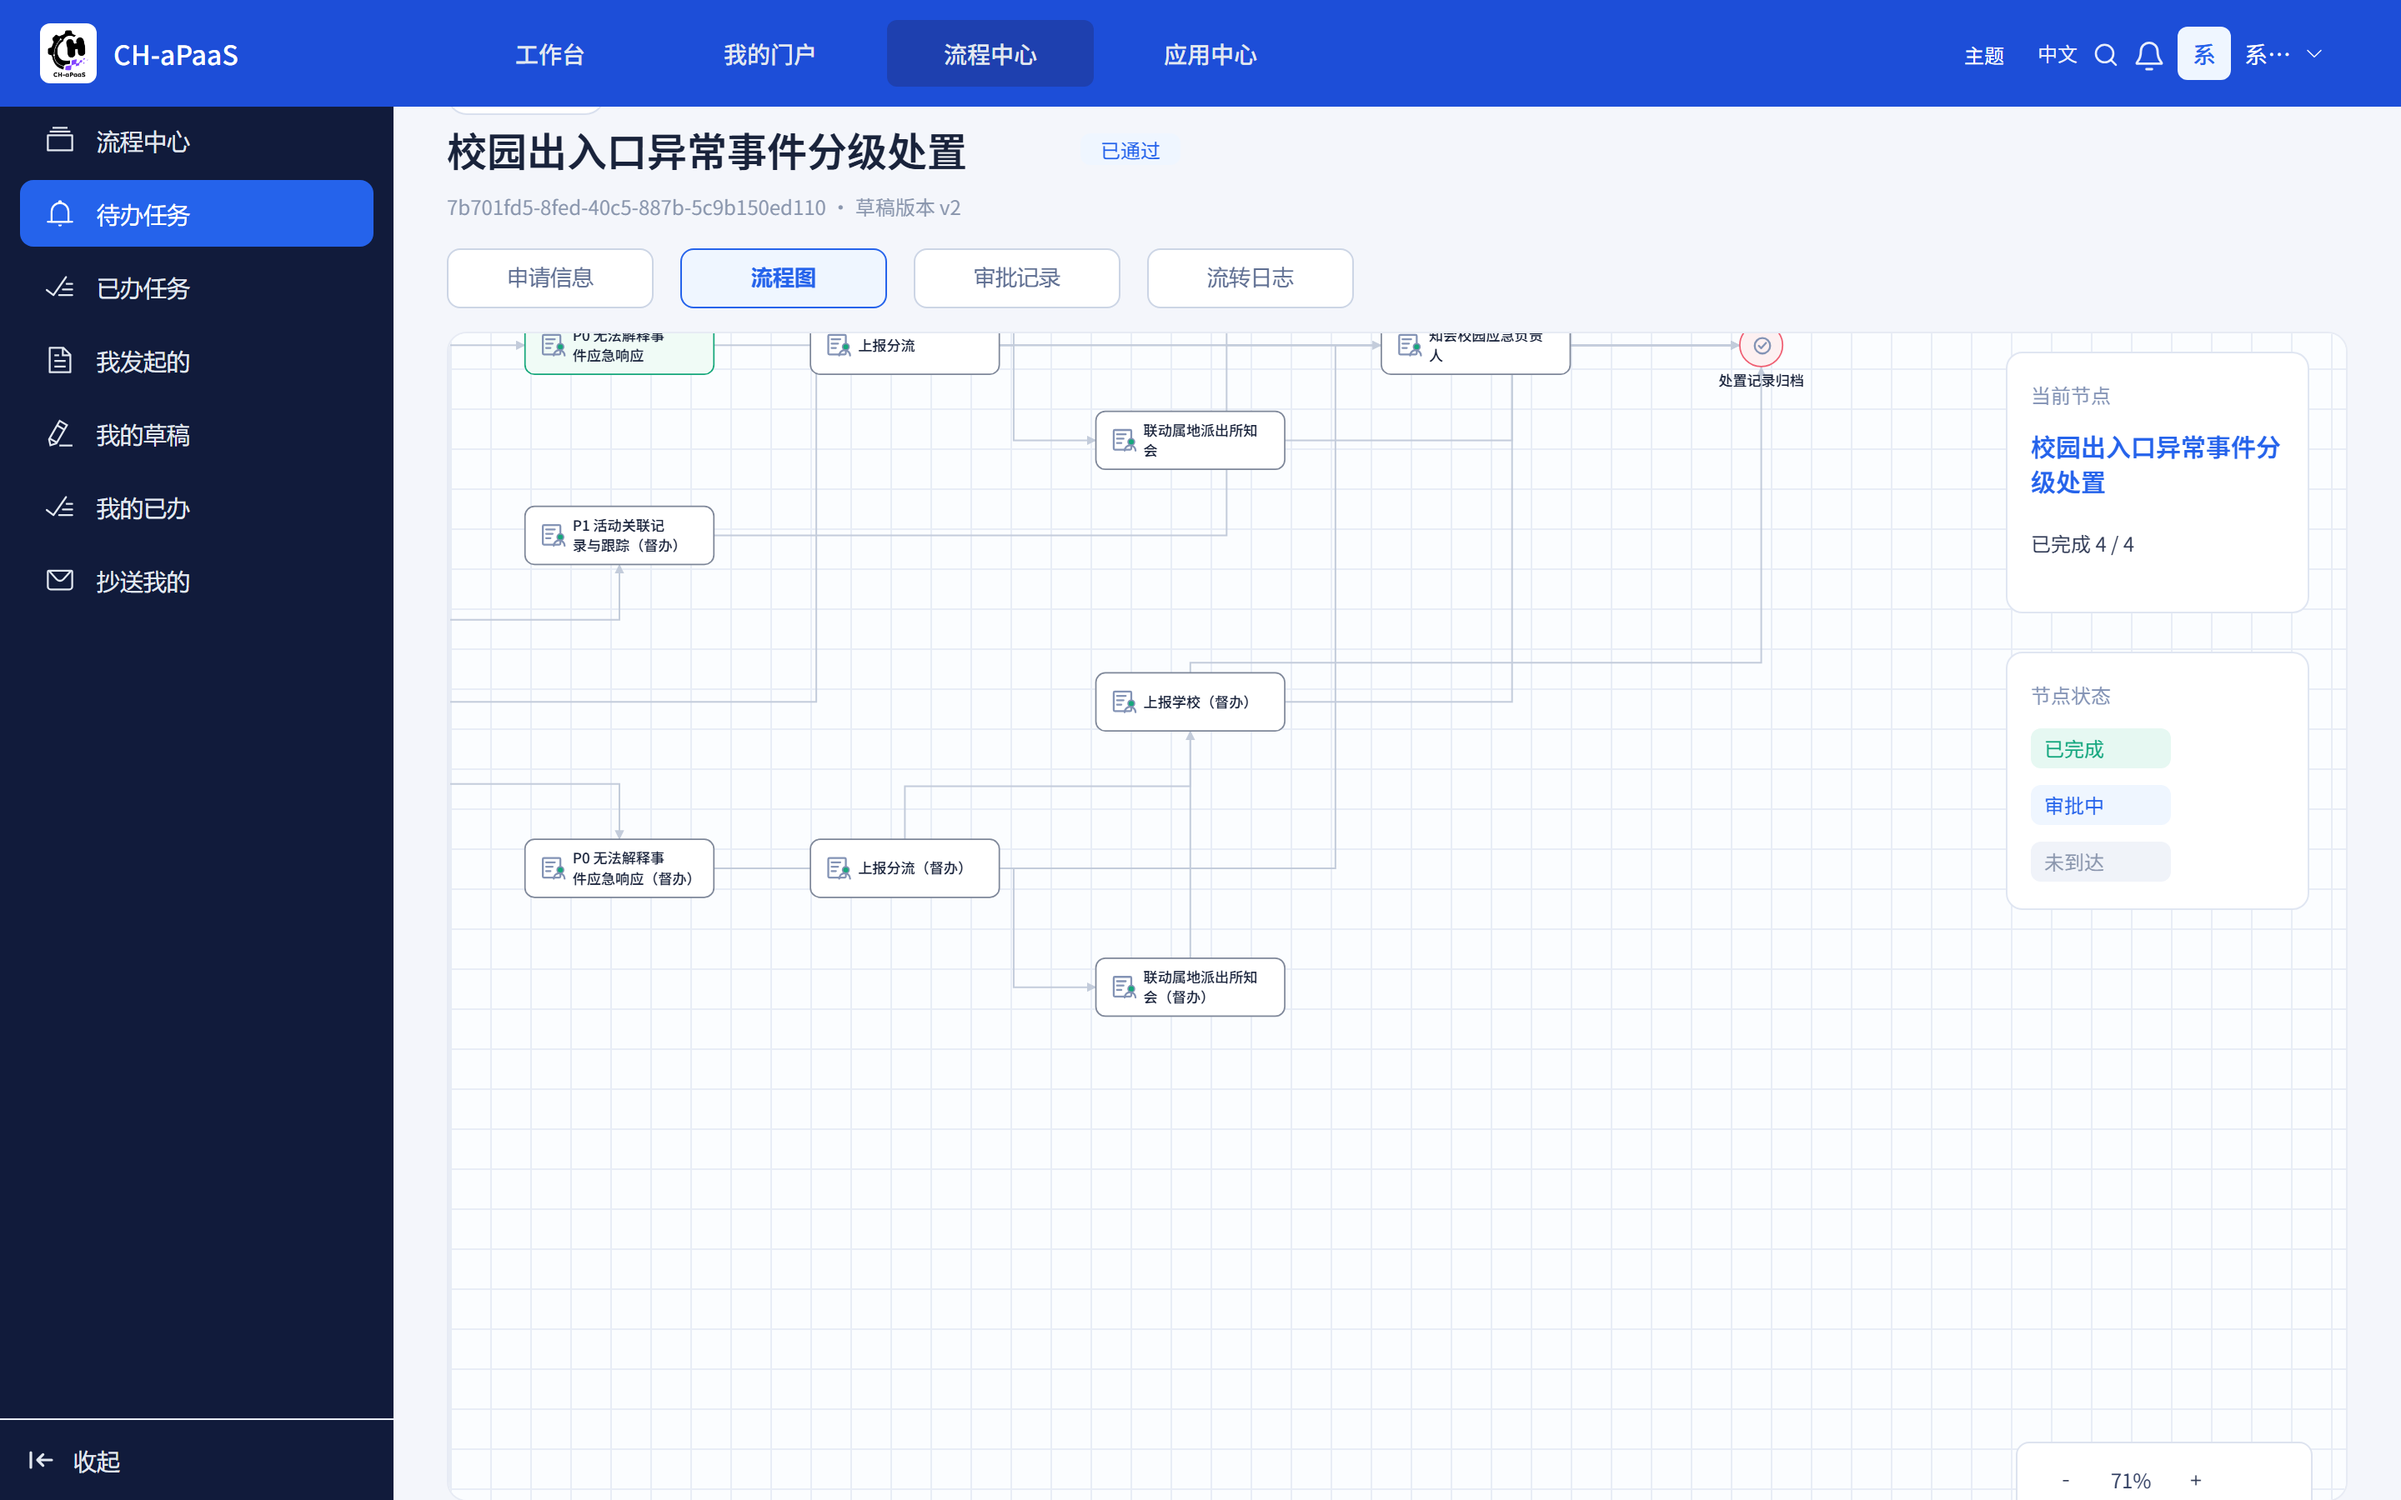
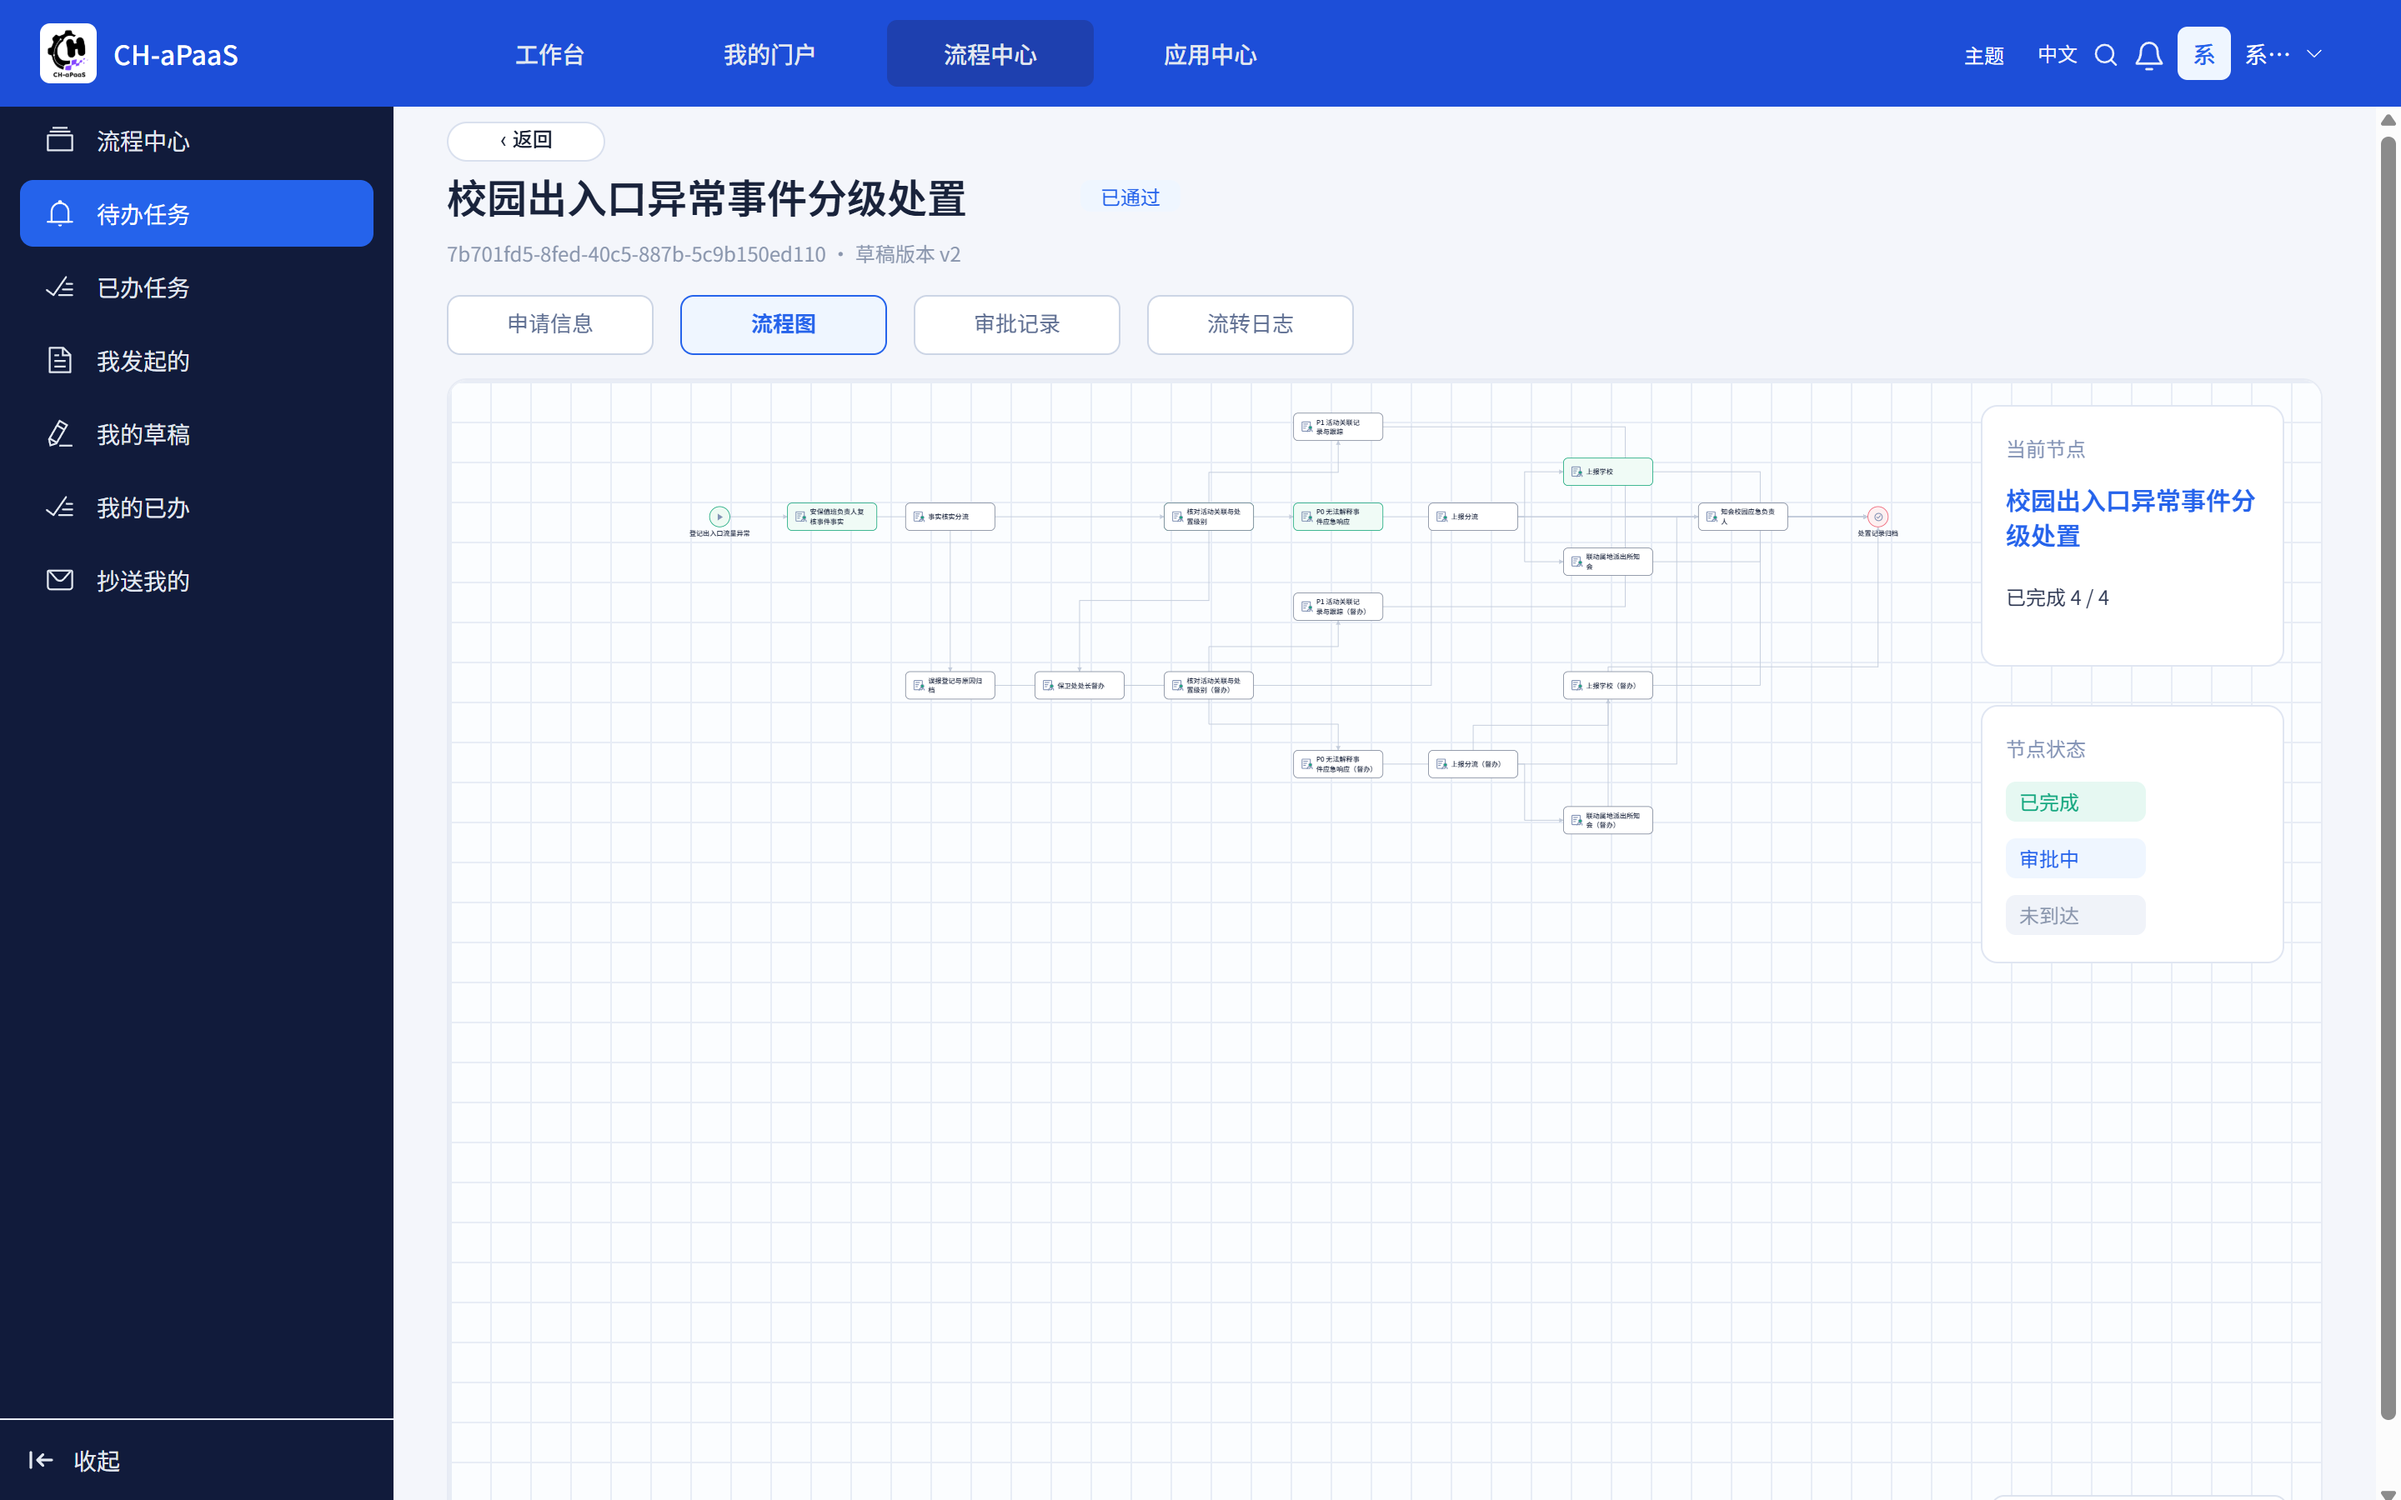
docs(web): 补agent-graph与新版sample-b截图

diff --git a/README.md b/README.md
@@ -20,6 +20,8 @@ Smart-WorkFlow-aPaaS-Web 是 **CH-aPaaS** 的前端界面（Vue 3 / TypeScript /
 | 表单设计器                                          | 流程设计器                                              |
 | --------------------------------------------------- | ------------------------------------------------------- |
 | ![表单设计器](docs/assets/readme/form-designer.png) | ![流程设计器](docs/assets/readme/workflow-designer.png) |
+| 智能体编排                                          | 工作台                                                  |
+| ![智能体编排](docs/assets/readme/agent-graph.png)   | ![工作台](docs/assets/readme/workspace.png)             |
 
 ## 能做什么
 
